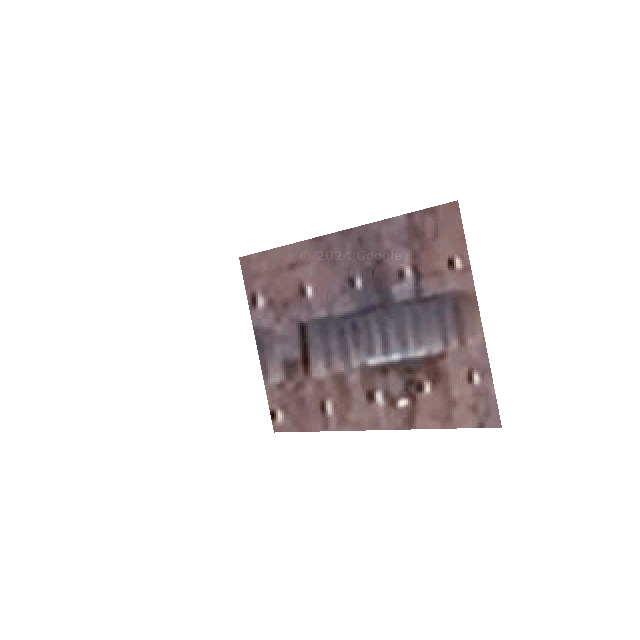
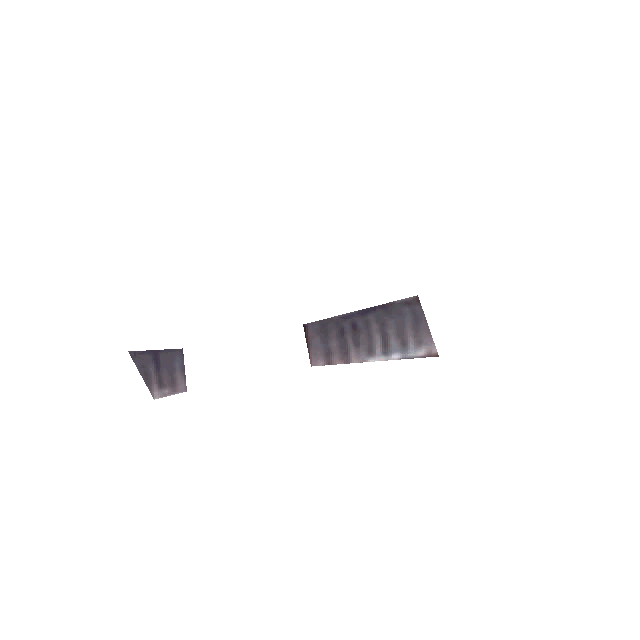
marking obstacles stage

Changed region(s): [[0.375, 0.3125, 0.7812, 0.6875], [0.1875, 0.5312, 0.3125, 0.625]]

diff --git a/templates/solar_panels.html b/templates/solar_panels.html
@@ -54,83 +54,69 @@ $(document).ready(function() {
     };
 
     const drawPanels = (panelCount) => {
-        ctx.clearRect(0, 0, canvas.width, canvas.height);
-        ctx.drawImage(image, 0, 0);
+    ctx.clearRect(0, 0, canvas.width, canvas.height);
+    ctx.drawImage(image, 0, 0);
 
-        $.get('/get_polygon_points', function(data) {
-            if (!data.points) {
-                console.error("No points data received");
-                return;
-            }
+    $.get('/get_polygon_points', function(data) {
+        if (!data.points) {
+            console.error("No points data received");
+            return;
+        }
 
-            const points = data.points;
+        const roofPolygon = data.points;
+        const obstaclePolygons = data.obstacles || []; // Fetch obstacles separately
 
-            if (!Array.isArray(points) || points.length === 0) {
-                console.error("Points data is not an array or is empty");
-                return;
-            }
+        // Draw the rooftop area
+        const scaledRoofPoints = roofPolygon.map(([x, y]) => [x * canvas.width / image.width, y * canvas.height / image.height]);
+        ctx.beginPath();
+        ctx.moveTo(scaledRoofPoints[0][0], scaledRoofPoints[0][1]);
+        scaledRoofPoints.forEach(point => ctx.lineTo(point[0], point[1]));
+        ctx.closePath();
+        ctx.clip();
 
-            console.log("Polygon points received:", points);
-
-            const scaledPoints = points.map(([x, y]) => {
-                return [x * canvas.width / image.width, y * canvas.height / image.height];
-            });
-
-            ctx.beginPath();
-            ctx.moveTo(scaledPoints[0][0], scaledPoints[0][1]);
-            for (let i = 1; i < scaledPoints.length; i++) {
-                ctx.lineTo(scaledPoints[i][0], scaledPoints[i][1]);
-            }
-            ctx.closePath();
-            ctx.clip();
-
-            ctx.strokeStyle = 'red';
-            ctx.lineWidth = 2;
-            ctx.beginPath();
-            ctx.moveTo(scaledPoints[0][0], scaledPoints[0][1]);
-            for (let i = 1; i < scaledPoints.length; i++) {
-                ctx.lineTo(scaledPoints[i][0], scaledPoints[i][1]);
-            }
-            ctx.closePath();
-            ctx.stroke();
-
-            const panelGrid = [];
-            const totalPanelWidth = panelWidth + 2 * transparentBorderSize;
-            const totalPanelHeight = panelHeight + 2 * transparentBorderSize;
-
-            for (let y = 0; y < canvas.height; y += totalPanelHeight) {
-                for (let x = 0; x < canvas.width; x += totalPanelWidth) {
-                    if (panelGrid.length >= panelCount) break;
-                    if (ctx.isPointInPath(x + totalPanelWidth / 2, y + totalPanelHeight / 2)) {
-                        panelGrid.push({ x, y });
-                    }
-                }
+        // Panel grid with obstacle handling
+        const panelGrid = [];
+        for (let y = 0; y < canvas.height; y += totalPanelHeight) {
+            for (let x = 0; x < canvas.width; x += totalPanelWidth) {
                 if (panelGrid.length >= panelCount) break;
+
+                // Skip positions inside obstacle polygons
+                const pointInsideObstacle = obstaclePolygons.some(obstacle => {
+                    ctx.beginPath();
+                    obstacle.forEach(([ox, oy], index) => {
+                        const [sx, sy] = [ox * canvas.width / image.width, oy * canvas.height / image.height];
+                        index === 0 ? ctx.moveTo(sx, sy) : ctx.lineTo(sx, sy);
+                    });
+                    ctx.closePath();
+                    return ctx.isPointInPath(x + panelWidth / 2, y + panelHeight / 2);
+                });
+
+                if (pointInsideObstacle) continue; // Skip if point is inside an obstacle
+
+                panelGrid.push({ x, y });
             }
+        }
 
-            panelGrid.slice(0, panelCount).forEach(({ x, y }) => {
-                console.log(`Drawing panel at (${x}, ${y})`);
+        panelGrid.slice(0, panelCount).forEach(({ x, y }) => {
+            ctx.fillStyle = 'rgba(0, 0, 0, 0.1)';
+            ctx.fillRect(x, y, totalPanelWidth, totalPanelHeight);
 
-                ctx.fillStyle = 'rgba(0, 0, 0, 0.1)';
-                ctx.fillRect(x, y, totalPanelWidth, totalPanelHeight);
+            ctx.fillStyle = 'white';
+            ctx.fillRect(x + transparentBorderSize, y + transparentBorderSize, panelWidth, panelHeight);
 
-                ctx.fillStyle = 'white';
-                ctx.fillRect(x + transparentBorderSize, y + transparentBorderSize, panelWidth, panelHeight);
+            ctx.fillStyle = 'rgba(0, 0, 132, 1)';
+            ctx.fillRect(x + transparentBorderSize + 1, y + transparentBorderSize + 1, panelWidth - 2, panelHeight - 2);
 
-                ctx.fillStyle = 'rgba(0, 0, 132, 1)';
-                ctx.fillRect(x + transparentBorderSize + 1, y + transparentBorderSize + 1, panelWidth - 2, panelHeight - 2);
-
-                ctx.strokeStyle = 'white';
-                ctx.lineWidth = 1;
-                ctx.strokeRect(x + transparentBorderSize + 1, y + transparentBorderSize + 1, panelWidth - 2, panelHeight - 2);
-            });
-
-            const powerOutput = panelCount * powerPerPanel;
-            powerOutputSpan.textContent = `Power Output: ${powerOutput.toFixed(2)} kWh`;
-        }).fail(function(jqXHR, textStatus, errorThrown) {
-            console.error("Error fetching polygon points:", textStatus, errorThrown);
+            ctx.strokeStyle = 'white';
+            ctx.lineWidth = 1;
+            ctx.strokeRect(x + transparentBorderSize + 1, y + transparentBorderSize + 1, panelWidth - 2, panelHeight - 2);
         });
-    };
+
+        const powerOutput = panelCount * powerPerPanel;
+        powerOutputSpan.textContent = `Power Output: ${powerOutput.toFixed(2)} kWh`;
+    });
+};
+
 
     slider.addEventListener('input', function() {
         const panelCount = parseInt(this.value);

diff --git a/static/js/main.js b/static/js/main.js
@@ -1,5 +1,29 @@
 let points = [];
+let obstacles = []; // Array to hold all obstacle polygons
+let currentObstacle = [];
+let isDrawingObstacle = false;
+
 let canvas, ctx, image;
+
+
+// Function to add a new obstacle
+function addObstacle(points) {
+    obstacles.push(points);
+}
+
+// Function to send obstacles to the server
+function sendObstacles() {
+    $.ajax({
+        url: '/cut_polygon',
+        type: 'POST',
+        contentType: 'application/json',
+        data: JSON.stringify({ obstacles: obstacles }),
+        success: function(response) {
+            console.log("Obstacles masked on image.");
+        }
+    });
+}
+
 
 function getMousePos(canvas, evt) {
     let rect = canvas.getBoundingClientRect();
@@ -9,23 +33,25 @@ function getMousePos(canvas, evt) {
     };
 }
 
-function drawPolygon() {
-    ctx.clearRect(0, 0, canvas.width, canvas.height);
-    ctx.drawImage(image, 0, 0);
-
-    if (points.length > 0) {
+function drawPolygon(polygon, color = 'red') {
+    if (polygon.length > 0) {
         ctx.beginPath();
-        ctx.moveTo(points[0].x, points[0].y);
-
-        for (let i = 1; i < points.length; i++) {
-            ctx.lineTo(points[i].x, points[i].y);
+        ctx.moveTo(polygon[0].x, polygon[0].y);
+        for (let i = 1; i < polygon.length; i++) {
+            ctx.lineTo(polygon[i].x, polygon[i].y);
         }
-
         ctx.closePath();
-        ctx.strokeStyle = 'red';
+        ctx.strokeStyle = color;
         ctx.lineWidth = 2;
         ctx.stroke();
     }
+}
+
+function drawAllPolygons() {
+    ctx.clearRect(0, 0, canvas.width, canvas.height);
+    ctx.drawImage(image, 0, 0);
+    drawPolygon(points, 'red'); // Draw main rooftop polygon
+    obstacles.forEach(obstacle => drawPolygon(obstacle, 'blue')); // Draw each obstacle polygon
 }
 
 function calculateArea() {
@@ -43,57 +69,62 @@ function calculateArea() {
             $('#result').text(`Area: ${response.area.toFixed(2)} square feet`);
         }
     });
-
-    
 }
 
 function cutPolygon() {
     const formattedPoints = points.map(point => [point.x, point.y]);
+    const formattedObstacles = obstacles.map(polygon => polygon.map(point => [point.x, point.y]));
 
     $.ajax({
         type: 'POST',
         url: '/cut_polygon',
         contentType: 'application/json',
-        data: JSON.stringify({ points: formattedPoints }),
+        data: JSON.stringify({ points: formattedPoints, obstacles: formattedObstacles }),
         success: function(response) {
-            const newImageUrl = response.image_url;
-            $('#cut-image').attr('src', newImageUrl);
+            window.location.href = '/solar_panels';
         }
     });
 }
-    
-function cutPolygon() {
-    const formattedPoints = points.map(point => [point.x, point.y]);
-
-    $.ajax({
-        type: 'POST',
-        url: '/cut_polygon',
-        contentType: 'application/json',
-        data: JSON.stringify({ points: formattedPoints }),
-        success: function(response) {
-            const newImageUrl = response.image_url;
-            window.location.href = '/solar_panels'; // Redirect to new Three.js page
-        }
-    });
-}
-
 
 $(document).ready(function() {
     canvas = document.getElementById('drawing-canvas');
     ctx = canvas.getContext('2d');
     image = document.getElementById('satellite-image');
 
-    // Set canvas size to match the image size
     canvas.width = image.width;
     canvas.height = image.height;
     ctx.drawImage(image, 0, 0);
 
     canvas.addEventListener('click', function(evt) {
         let pos = getMousePos(canvas, evt);
-        points.push(pos);
-        drawPolygon();
+        if (isDrawingObstacle) {
+            currentObstacle.push(pos);
+            drawAllPolygons();
+            drawPolygon(currentObstacle, 'blue');
+        } else {
+            points.push(pos);
+            drawAllPolygons();
+        }
     });
-    calculateArea();
+
     $('#calculate-area-btn').click(calculateArea);
+
     $('#cut-polygon-btn').click(cutPolygon);
+
+    $('#add-obstacle-btn').click(function() {
+        if (currentObstacle.length > 0) {
+            obstacles.push([...currentObstacle]);
+            currentObstacle = [];
+        }
+        isDrawingObstacle = true;
+    });
+
+    $('#stop-drawing-obstacle-btn').click(function() {
+        isDrawingObstacle = false;
+        if (currentObstacle.length > 0) {
+            obstacles.push([...currentObstacle]);
+            currentObstacle = [];
+        }
+        drawAllPolygons();
+    });
 });

diff --git a/templates/index.html b/templates/index.html
@@ -45,11 +45,18 @@
     <div class="button-container">
         <button id="cut-polygon-btn" class="btn bottom-button">Extract Rooftop Portion</button>
     </div>
+
+    <div class="container mt-4">
+        <h5>Mark obstacles on the rooftop. Panels will avoid these areas.</h5>
+        <button id="add-obstacle-btn" class="btn btn-primary">Add Obstacle</button>
+        <button id="stop-drawing-obstacle-btn" class="btn btn-secondary">Stop Drawing Obstacles</button>
+    </div>
     
     <div class="image-container">
     </div>
 </div>
 <!-- Include jQuery from a CDN -->
+ 
 <script src="https://code.jquery.com/jquery-3.6.0.min.js"></script>
 <script src="{{ url_for('static', filename='js/main.js') }}"></script>
 

diff --git a/app.py b/app.py
@@ -90,38 +90,41 @@ def calculate_area():
 @app.route('/cut_polygon', methods=['POST'])
 def cut_polygon():
     data = request.json
-    points = data['points']
-
-    # Convert points to integer
-    points = [(int(point[0]), int(point[1])) for point in points]
+    obstacle_list = data['obstacles']  # List of obstacle polygons
 
     # Load the original image
     image = Image.open("static/satellite_image.png").convert("RGBA")
 
-    # Create a mask image
+    # Create a mask image for all obstacles combined
     mask = Image.new('L', (image.width, image.height), 0)
-    ImageDraw.Draw(mask).polygon(points, outline=1, fill=1)
+    
+    # Draw each obstacle polygon onto the mask
+    for obstacle_points in obstacle_list:
+        obstacle_points = [(int(point[0]), int(point[1])) for point in obstacle_points]
+        ImageDraw.Draw(mask).polygon(obstacle_points, outline=1, fill=1)
+    
+    # Convert image and mask to numpy arrays
     mask = np.array(mask)
-
-    # Convert image to numpy array
     image_np = np.array(image)
 
-    # Create an alpha channel with the same size as the image
+    # Create an alpha channel
     alpha_channel = np.zeros_like(image_np[:, :, 0])
-
-    # Set the alpha channel to 255 for the polygon area
     alpha_channel[mask == 1] = 255
 
     # Add the alpha channel to the image
     image_np = np.dstack((image_np[:, :, :3], alpha_channel))
 
-    # Convert back to Image
-    new_image = Image.fromarray(image_np, 'RGBA')
-
-    # Save the result
+    # Save the new image
     output_path = "static/cut_polygon.png"
+    new_image = Image.fromarray(image_np, 'RGBA')
     new_image.save(output_path)
+
+    print("obstacle_list:",obstacle_list)
+    print("mask:",mask)
+    
     return jsonify({"image_url": output_path})
+
+
 
 
 def extract_polygon_points2(image_path):
